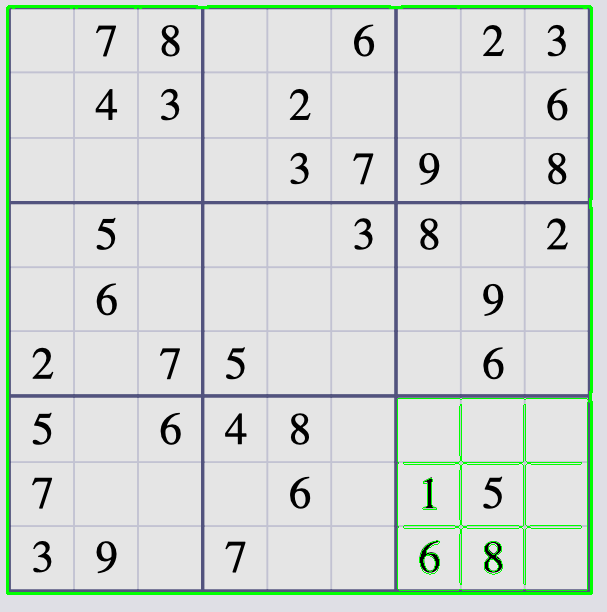
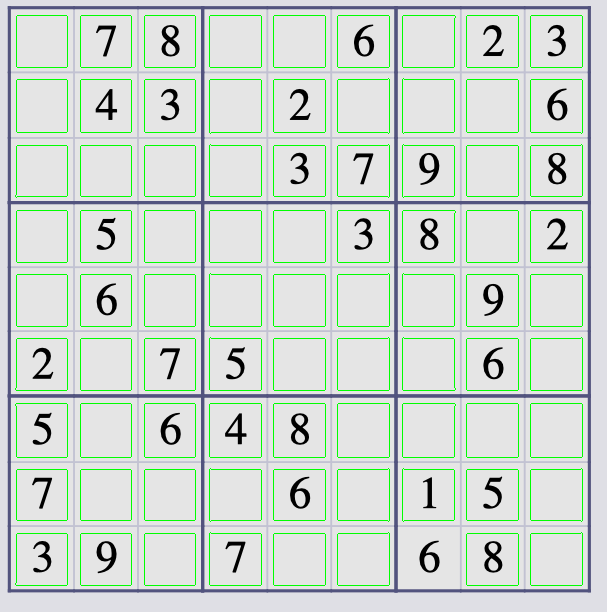
got p[reprocessing right to get all 81 single squares

diff --git a/preprocessing.py b/preprocessing.py
@@ -6,11 +6,12 @@ def func(x):
     return x[1]
 
 def preprocess_image(path):
+    kernel=cv2.getStructuringElement(cv2.MORPH_CROSS, (11,11))
     orig_img = cv2.imread(path)
     img = cv2.cvtColor(orig_img, cv2.COLOR_BGR2GRAY)
     img = cv2.GaussianBlur(img, (9,9), 0)
-    # retval, img = cv2.threshold(img, 0,255, cv2.THRESH_BINARY_INV+cv2.THRESH_OTSU)
     img = cv2.adaptiveThreshold(img, 255, cv2.ADAPTIVE_THRESH_GAUSSIAN_C, cv2.THRESH_BINARY, 11, 2)
+    img = cv2.erode(img, kernel, iterations=1)
     img = cv2.morphologyEx(img, cv2.MORPH_OPEN, (9,9))
 
     img = cv2.bitwise_not(img,img)
@@ -19,26 +20,35 @@ def preprocess_image(path):
     contours, hierarchy = cv2.findContours(img, cv2.RETR_TREE, cv2.CHAIN_APPROX_SIMPLE)
     print(len(contours))
     img = cv2.bitwise_not(img,img)
-    cv2.drawContours(orig_img, contours[1:10], -1, (0, 255,0) , 1)
-    cv2.drawContours(orig_img, ext_contours, -1, (0, 255,0), 2)
+    # cv2.drawContours(orig_img, contours, -1, (0, 255,0) , 1)
+    # cv2.drawContours(orig_img, ext_contours, -1, (0, 255,0), 2)
 
-    contours = sorted(contours, key=cv2.contourArea)# Sorting contours by area in ascending order
-    box = contours[-1]
+    sorted_contours = sorted(contours, key = cv2.contourArea, reverse=True)
 
-    bottom_right, _ = max(enumerate([pt[0][0] + pt[0][1] for pt in box]), key=func)
-    top_left, _ = min(enumerate([pt[0][0] + pt[0][1] for pt in box]), key=func)
-    bottom_left, _ = min(enumerate([pt[0][0] - pt[0][1] for pt in box]), key=func)
-    top_right, _ = max(enumerate([pt[0][0] - pt[0][1] for pt in box]), key=func)
+    cv2.drawContours(orig_img, sorted_contours[1:81], -1, (0, 255,0) , 1)
+    # print(sorted)
 
-    #x, y coordinates of 4 corner points
-    bottom_right = box[bottom_right][0]
-    top_left = box[top_left][0]
-    bottom_left = box[bottom_left][0]
-    top_right = box[top_right][0]
 
-    corners = (top_left, top_right, bottom_right, bottom_left)
 
-    print(corners)
+
+
+    # contours = sorted(contours, key=cv2.contourArea)# Sorting contours by area in ascending order
+    # box = contours[-1]
+
+    # bottom_right, _ = max(enumerate([pt[0][0] + pt[0][1] for pt in box]), key=func)
+    # top_left, _ = min(enumerate([pt[0][0] + pt[0][1] for pt in box]), key=func)
+    # bottom_left, _ = min(enumerate([pt[0][0] - pt[0][1] for pt in box]), key=func)
+    # top_right, _ = max(enumerate([pt[0][0] - pt[0][1] for pt in box]), key=func)
+
+    # #x, y coordinates of 4 corner points
+    # bottom_right = box[bottom_right][0]
+    # top_left = box[top_left][0]
+    # bottom_left = box[bottom_left][0]
+    # top_right = box[top_right][0]
+
+    # corners = (top_left, top_right, bottom_right, bottom_left)
+
+    # print(corners)
 
 
 
